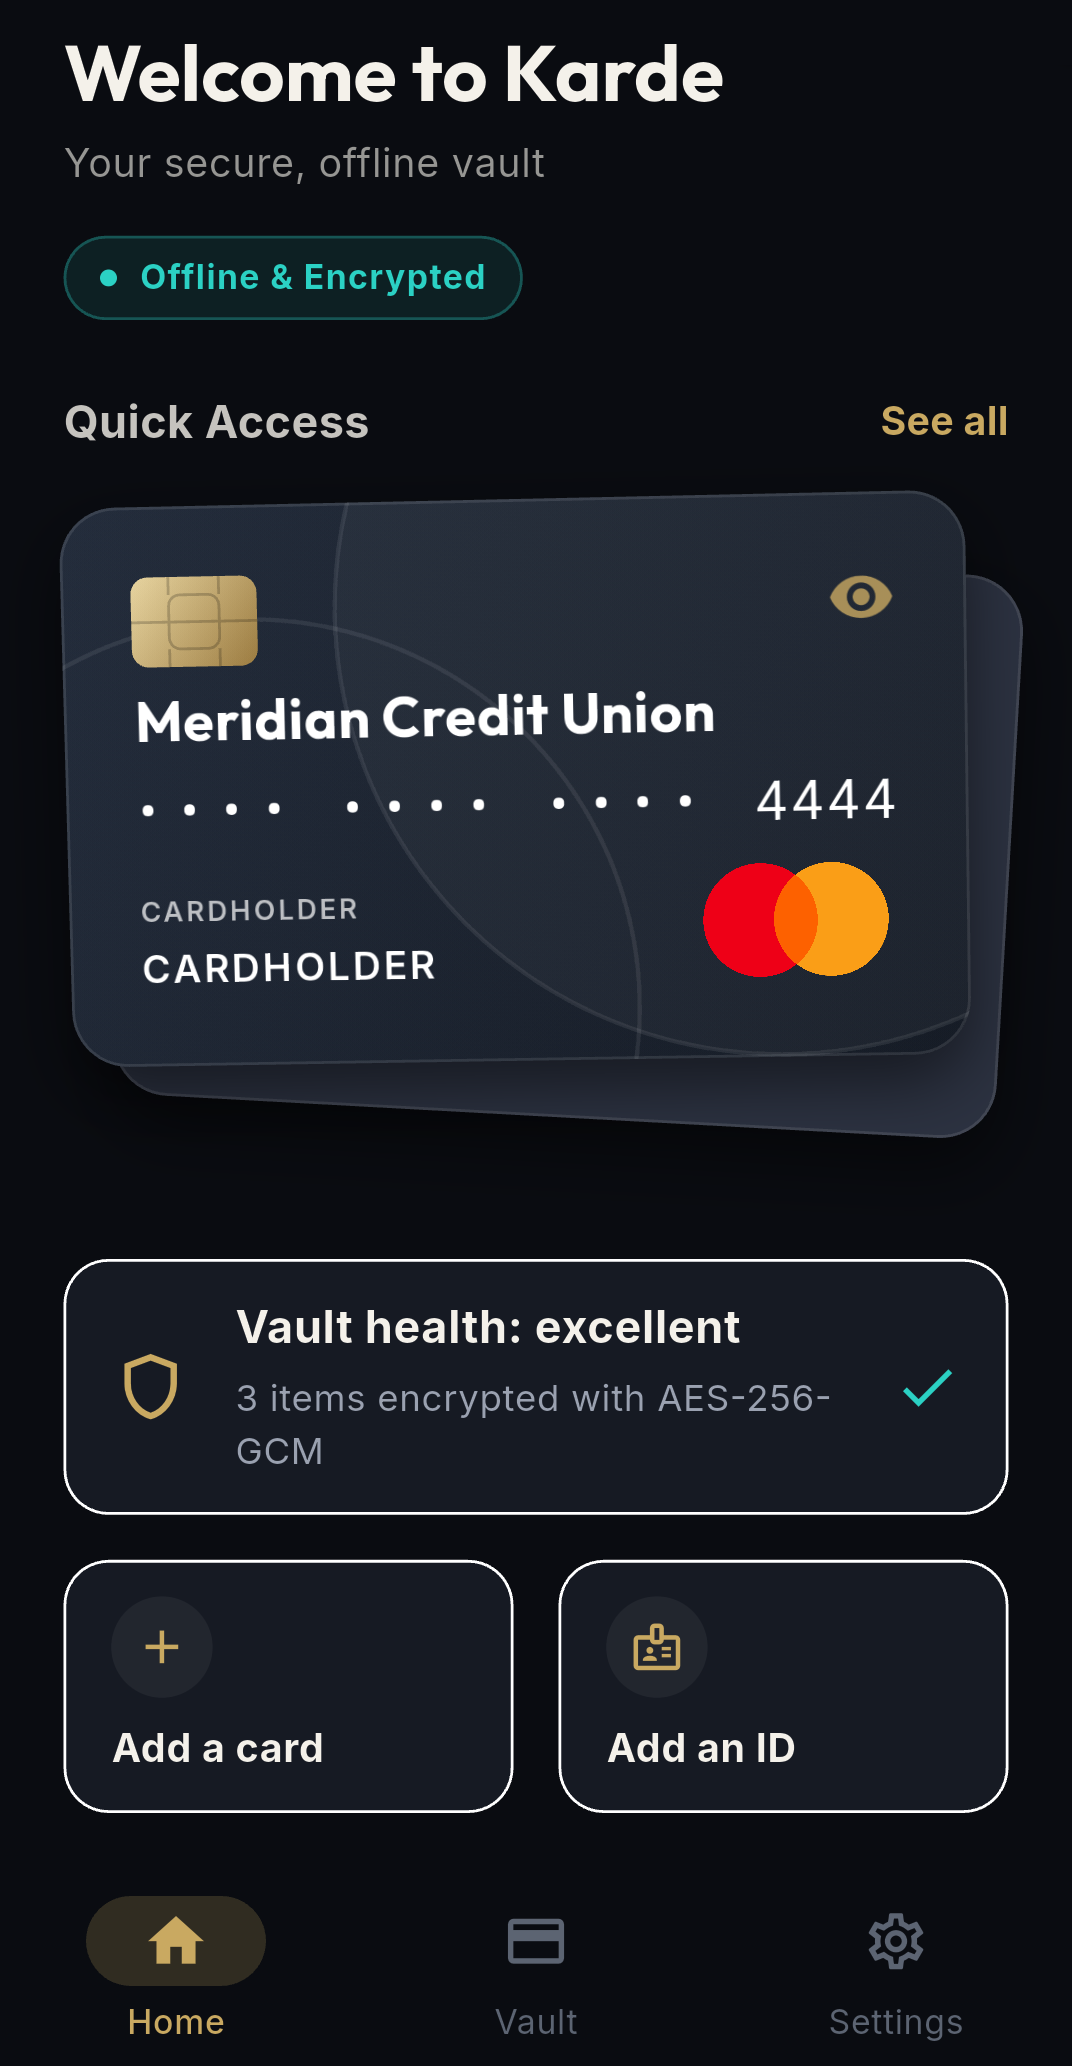
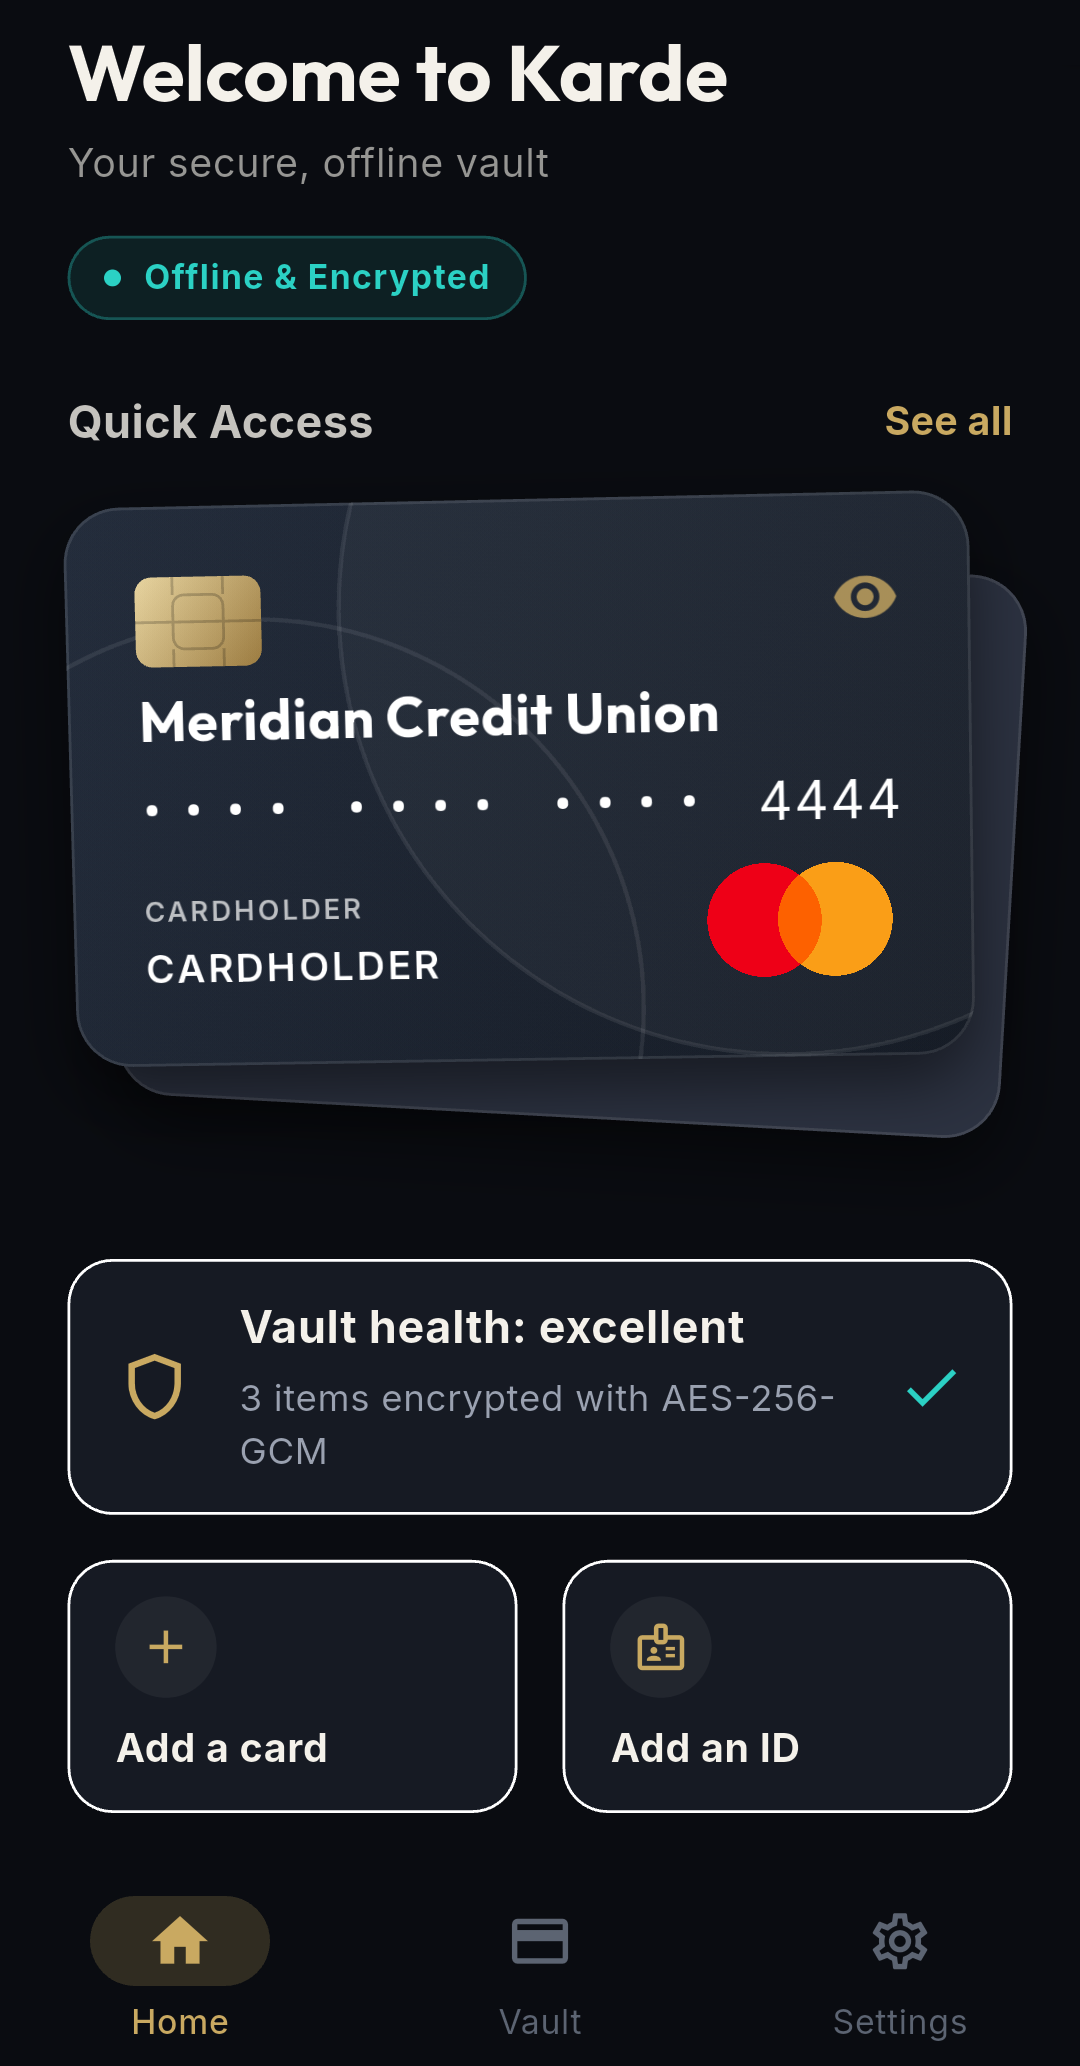
Screenshots at the full 1080px width Play wants for promotion
Play asks for at least four screenshots measuring 1080px or more on every side
to be eligible for promotion. The 4px trimmed from each edge left them at 1072
and short of that.

Sampling the edge pixels showed the trim was never needed: columns 0-5 and
1074-1079 are all pure background. The edge highlight I trimmed for was an
artifact of how I was viewing the file, not something in it.

Keeps the crop script alongside the output so the shots can be regenerated.

diff --git a/Karde_Design_Package/store/crop_screenshots.js b/Karde_Design_Package/store/crop_screenshots.js
@@ -1,0 +1,98 @@
+// Turns a raw device screenshot into a store-ready one.
+//
+// The awkward part is the red SCREENSHOTS ON banner in the top-right corner. It
+// cannot simply be cropped away, because on some screens the app bar starts
+// immediately below it. So instead the banner is painted over — and the paint
+// colour is SAMPLED from the same rows on the left of the same image, because
+// the colour behind it differs per screen (the Settings app bar is lighter than
+// the page background). A fixed colour left a visible block.
+const fs = require('fs');
+const zlib = require('zlib');
+const { execFileSync } = require('child_process');
+
+const CHROME = 'C:/Program Files/Google/Chrome/Application/chrome.exe';
+const DIR = 'C:/Users/TEMESG~1.TIL/AppData/Local/Temp/claude/c--development-projects-ibank/c83ac81e-8b27-4184-8be8-3af3c31d370f/scratchpad/shots';
+const OUT = 'C:/development/projects/ibank/Karde_Design_Package/store/screenshots';
+
+const SRC_W = 1080, SRC_H = 2316;
+// INSET was 4, to trim a screen-edge highlight -- but sampling the pixels showed
+// the edges are clean background, and 1072px fell under Play's 1080px minimum for
+// promotable screenshots. Keep the full width.
+const INSET = 0, TOP = 98, BOTTOM = 152;
+const W = SRC_W - INSET * 2;
+const H = SRC_H - TOP - BOTTOM;
+
+// --- minimal PNG reader: 8-bit RGB / RGBA, no interlace -------------------
+function decodePng(file) {
+  const b = fs.readFileSync(file);
+  let p = 8, w = 0, h = 0, colorType = 0;
+  const idat = [];
+  while (p < b.length) {
+    const len = b.readUInt32BE(p);
+    const type = b.toString('ascii', p + 4, p + 8);
+    const data = b.subarray(p + 8, p + 8 + len);
+    if (type === 'IHDR') { w = data.readUInt32BE(0); h = data.readUInt32BE(4); colorType = data[9]; }
+    else if (type === 'IDAT') idat.push(data);
+    else if (type === 'IEND') break;
+    p += 12 + len;
+  }
+  const raw = zlib.inflateSync(Buffer.concat(idat));
+  const ch = colorType === 6 ? 4 : 3;
+  const stride = w * ch;
+  const out = Buffer.alloc(h * stride);
+  let q = 0;
+  for (let y = 0; y < h; y++) {
+    const filter = raw[q++];
+    const line = raw.subarray(q, q + stride); q += stride;
+    const cur = out.subarray(y * stride, (y + 1) * stride);
+    const prev = y ? out.subarray((y - 1) * stride, y * stride) : Buffer.alloc(stride);
+    for (let x = 0; x < stride; x++) {
+      const a = x >= ch ? cur[x - ch] : 0, bb = prev[x], c = x >= ch ? prev[x - ch] : 0;
+      let v = line[x];
+      if (filter === 1) v += a; else if (filter === 2) v += bb; else if (filter === 3) v += (a + bb) >> 1;
+      else if (filter === 4) {
+        const pp = a + bb - c, pa = Math.abs(pp - a), pb = Math.abs(pp - bb), pc = Math.abs(pp - c);
+        v += (pa <= pb && pa <= pc) ? a : (pb <= pc ? bb : c);
+      }
+      cur[x] = v & 255;
+    }
+  }
+  return { w, h, ch, data: out, px: (x, y) => { const i = y * stride + x * ch; return [out[i], out[i + 1], out[i + 2]]; } };
+}
+
+const isBannerRed = ([r, g, bl]) => r > 110 && r > g * 1.8 && r > bl * 1.8;
+
+for (const name of process.argv.slice(2)) {
+  const src = `${DIR}/${name}.png`;
+  if (!fs.existsSync(src)) { console.log('missing', name); continue; }
+  const img = decodePng(src);
+
+  // How far down, and how far left, does the banner actually reach?
+  let maxY = 0, minX = SRC_W;
+  for (let y = 0; y < 300; y++)
+    for (let x = 600; x < img.w; x++)
+      if (isBannerRed(img.px(x, y))) { if (y > maxY) maxY = y; if (x < minX) minX = x; }
+
+  const maskH = Math.max(0, maxY - TOP + 6);          // in cropped coordinates
+  const maskW = maxY > 0 ? Math.min(W, SRC_W - minX + 16) : 0;
+  // Sample the background from the same band, far left, where no banner reaches.
+  const [r, g, bl] = img.px(12, Math.min(TOP + Math.max(maskH, 8) - 4, img.h - 1));
+  const fill = `rgb(${r},${g},${bl})`;
+
+  const html = `${DIR}/_crop_${name}.html`;
+  const css = [
+    '*{margin:0;padding:0}',
+    `html,body{width:${W}px;height:${H}px;overflow:hidden;background:${fill}}`,
+    `img{position:absolute;left:-${INSET}px;top:-${TOP}px;width:${SRC_W}px}`,
+    `.mask{position:absolute;right:0;top:0;width:${maskW}px;height:${maskH}px;background:${fill}}`,
+  ].join('');
+  fs.writeFileSync(html, `<style>${css}</style><img src="file:///${src}">${maskH ? '<div class="mask"></div>' : ''}`);
+
+  execFileSync(CHROME, ['--headless=new', '--disable-gpu', '--hide-scrollbars',
+    '--force-device-scale-factor=1', `--window-size=${W},${H}`,
+    `--screenshot=${OUT}/${name}.png`, `file:///${html}`], { stdio: 'ignore' });
+
+  const o = fs.readFileSync(`${OUT}/${name}.png`);
+  console.log(`${name}  ${o.readUInt32BE(16)}x${o.readUInt32BE(20)}  banner to y=${maxY}  mask ${maskW}x${maskH} ${fill}`);
+  fs.unlinkSync(html);
+}
